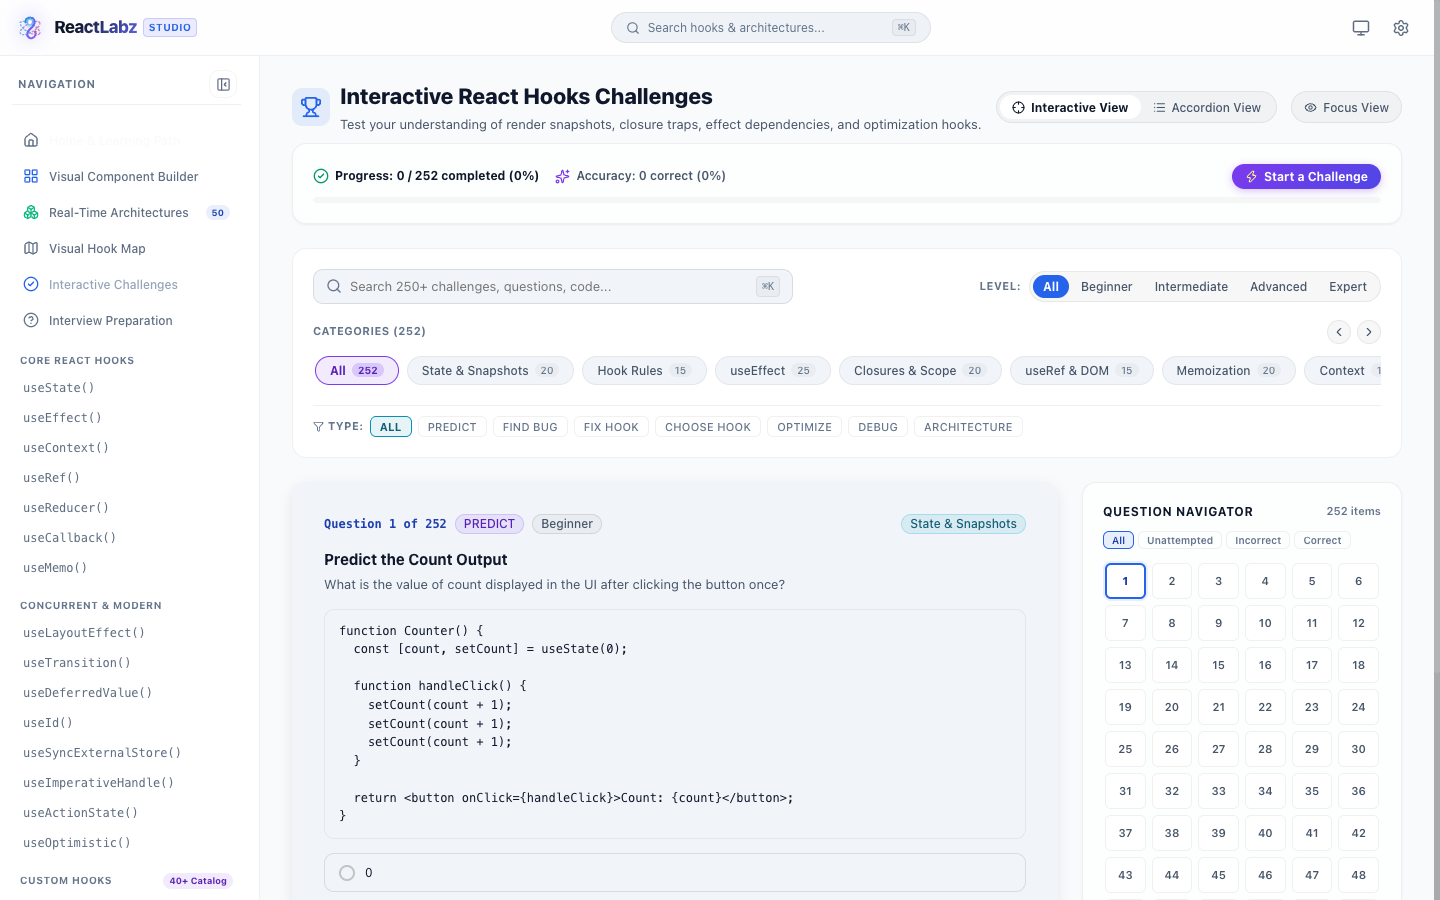
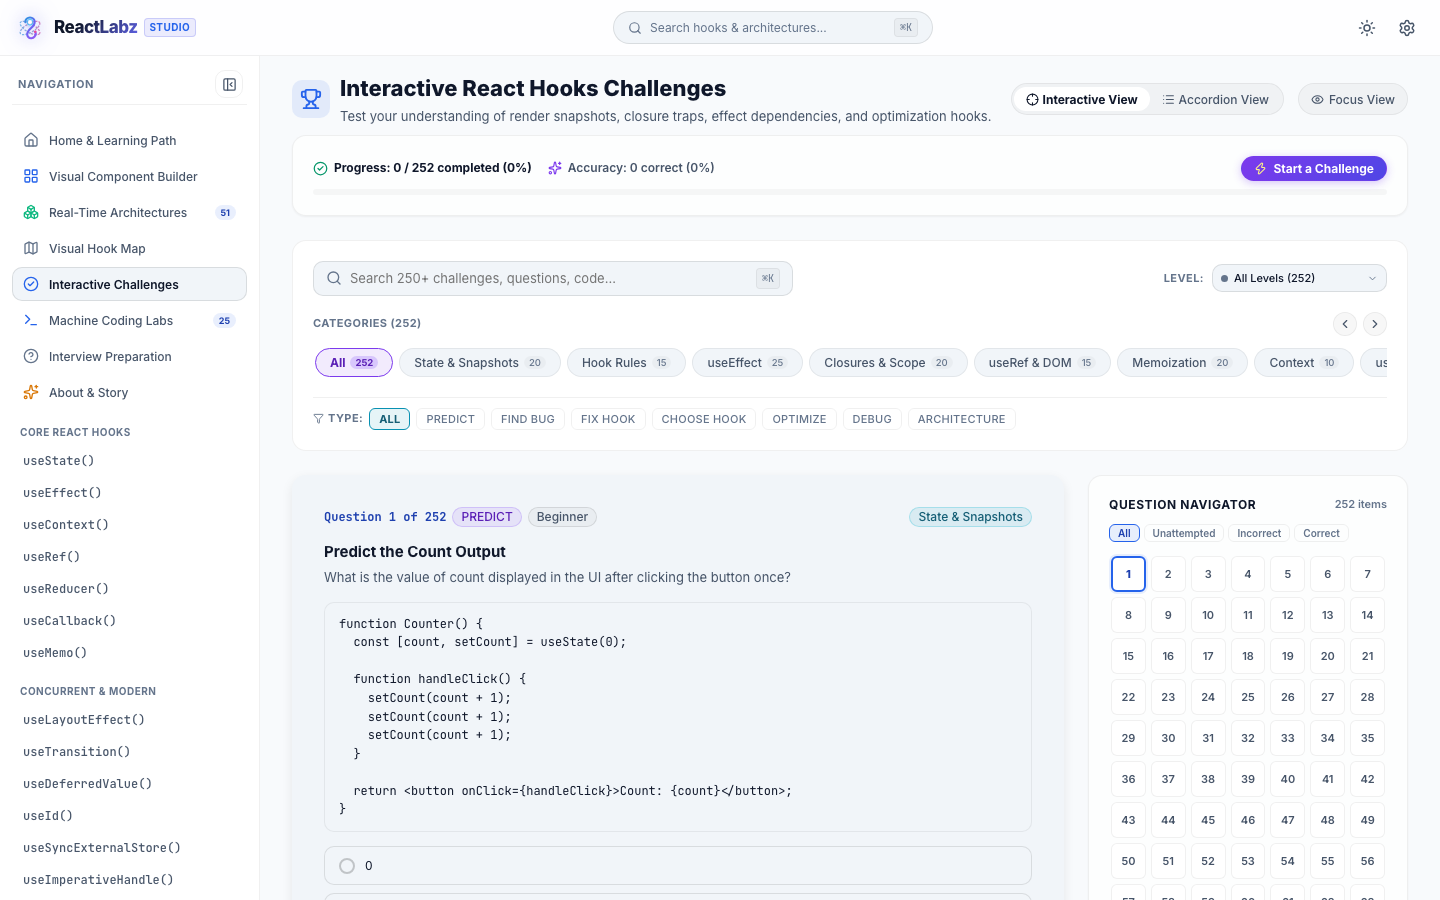
docs: update README with 25 machine coding labs, audio coach, and light mode screenshots

diff --git a/README.md b/README.md
@@ -5,11 +5,12 @@
 [![React 19](https://img.shields.io/badge/React-19.2-61DAFB?style=for-the-badge&logo=react&logoColor=black)](https://react.dev)
 [![TypeScript](https://img.shields.io/badge/TypeScript-6.0-3178C6?style=for-the-badge&logo=typescript&logoColor=white)](https://www.typescriptlang.org/)
 [![Vite](https://img.shields.io/badge/Vite-8.2-646CFF?style=for-the-badge&logo=vite&logoColor=white)](https://vitejs.dev/)
-[![Zero Backend](https://img.shields.io/badge/Zero_Backend-100%25_Client--Side-10B981?style=for-the-badge&logo=safari&logoColor=white)](#privacy--zero-backend-architecture)
+[![25 Machine Coding Labs](https://img.shields.io/badge/Machine_Coding-25_Interactive_Labs-8B5CF6?style=for-the-badge&logo=codeforces&logoColor=white)](#3-25-frontend-machine-coding-questions--interactive-labs-machine-coding)
+[![Zero Backend](https://img.shields.io/badge/Zero_Backend-100%25_Client--Side-10B981?style=for-the-badge&logo=safari&logoColor=white)](#11-local-first-privacy--zero-backend)
 [![License: MIT](https://img.shields.io/badge/License-MIT-F59E0B?style=for-the-badge)](LICENSE)
 
 **Stop guessing what React hooks are doing under the hood.**  
-A visual, hands-on diagnostic laboratory for React engineers. Inspect state snapshots, debug memory leaks and stale closures, compare referential identity, and construct functional components on an infinite visual canvas.
+A visual, hands-on diagnostic laboratory and machine coding suite for React engineers. Inspect state snapshots, debug memory leaks and stale closures, compare referential identity, construct functional components on an infinite visual canvas, and master 25 real-world machine coding problems with live sandboxes.
 
 [**Explore Live Demo**](https://reactlabz.vercel.app/) · [**Report Issue**](https://github.com/thevarunnayak/react-hooks/issues) · [**Request Feature**](https://github.com/thevarunnayak/react-hooks/issues)
 
@@ -24,11 +25,29 @@ A visual, hands-on diagnostic laboratory for React engineers. Inspect state snap
 ### Home & Interactive Fiber Telemetry
 ![ReactLabz Home](docs/screenshots/home.png)
 
+### Frontend Machine Coding Question Bank (25 Real-World Labs)
+![Machine Coding Catalog](docs/screenshots/machine_coding_catalog.png)
+
+### Interactive Code Editor & Live Compiler Sandbox
+![Code Editor Lab](docs/screenshots/machine_coding_lab.png)
+
+### WYSIWYG Rich Text Editor & Live Document Studio
+![WYSIWYG Rich Text Editor](docs/screenshots/rich_text_editor.png)
+
+### HTML5 Drag-and-Drop Kanban Board
+![Drag and Drop Kanban Board](docs/screenshots/kanban_board_lab.png)
+
 ### Infinite Visual Component Builder & Canvas Playground
 ![Visual Builder Canvas](docs/screenshots/playground.png)
 
 ### Visual Layout & Flex Studio
 ![Layout & Flex Studio](docs/screenshots/layout_studio.png)
+
+### Curated Custom Hooks Catalog (40+ Hooks)
+![Custom Hooks Catalog](docs/screenshots/custom_hooks.png)
+
+### Senior React Interview Simulator & Challenges Lab
+![Interactive Challenges](docs/screenshots/challenges.png)
 
 </div>
 
@@ -82,7 +101,69 @@ A visual, hands-on diagnostic laboratory for React engineers. Inspect state snap
 
 ---
 
-### 3. Deep Interactive Visualizers & Diagnostics
+### 3. 25 Frontend Machine Coding Questions & Interactive Labs (`#machine-coding`)
+*Practice building real, high-frequency frontend machine coding features from scratch with 100% client-side live sandboxes.*
+
+#### Curated Problem Catalog Across 5 Specialized Domains:
+1. **Interactive Component Systems**:
+   - **Tree View Explorer**: Hierarchical folder/file structure with conditional root file creation, node rename, add, delete, and light/dark theme tokens.
+   - **Split Pane Resizer**: Multi-pane resizer supporting `2 Panes (Split)`, `3 Panes (Nested Right)`, `3 Panes (Columns)`, and `4 Panes (2x2 Grid)` with dynamic pane adders and mouse/touch drag listeners.
+   - **Hierarchical Breadcrumb Navigator**: Interactive multi-tier hub navigation (`Cloud Console`, `E-Commerce Store`, `Developer Docs`) with cascading hover previews and segment jumping.
+   - **Responsive Tabs System**: Smooth sliding active pill indicator supporting horizontal and responsive vertical stacked orientations.
+   - **Nested Accordion FAQ**: CSS Grid `0fr -> 1fr` natural height transitions with WAI-ARIA compliance and single/multi expand modes.
+   - **Modal Dialog with Focus Trap**: React Portal, keyboard focus trap, Esc key dismissal, and background scroll lock.
+2. **Data-Intensive & High-Performance Lists**:
+   - **List Virtualization**: Renders 10,000 items at 60 FPS using a fixed-height sliding window, DOM node counter, and memory telemetry.
+   - **Advanced Data Table**: Multi-column sorting, global search, pagination, row multi-selection, and 1-click export to CSV / PDF.
+   - **Infinite Scroll Feed**: IntersectionObserver sentinel detection, skeleton loading cards, simulated network failure & retry.
+   - **Image Carousel**: Single Slide, Center-Stage Peek, and Multi-Card responsive modes with touch swipe gestures and auto-play hover pause.
+3. **Interactive Tools & Real-Time Studios**:
+   - **Interactive Code Editor & Live Compiler**: Multi-language execution sandbox (JavaScript, TypeScript, CSS, JSON) with intercepted console output, error reporting, and duration benchmarks.
+   - **WYSIWYG Rich Text Editor**: Custom in-theme hyperlink modal dialog (no browser prompts), live hover explainer ribbon, and active style highlighting for 14 formatting modes.
+   - **Drag-and-Drop Kanban Board**: HTML5 drag-and-drop tasks across columns with status counts, priority tags, and inline task creation.
+   - **Product Gallery with 2.5x Zoom**: Multi-angle image switcher, interactive zoom lens panel, and elevated stacking contexts.
+4. **Forms & User Input Controls**:
+   - **Debounced & Throttled Search**: Rapid keyboard input simulation, sliding debounce delay slider, in-memory query caching, and AbortController request simulation.
+   - **Autocomplete Combobox**: Keyboard navigation (Arrow keys / Enter / Esc), matched substring highlighting, and click-outside dismissal.
+   - **Multi-Step Form Wizard**: Multi-phase stepper, field validation, animated progress bar, and final review summary.
+   - **Dynamic Date Picker & Range Selector**: Single date and range selection, circular/rounded day cells, and quick preset buttons.
+   - **Star Rating Component**: Fractional hover preview, keyboard accessibility, and form value submission.
+   - **Drag-and-Drop File Uploader**: Multi-file dropzone, upload progress tracking, pause/resume simulation, and size validation.
+5. **Async & Real-Time Applications**:
+   - **Real-Time Chat with Auto-Scroll**: Intelligent scroll-to-bottom suppression when reading history, floating unread counter pill, and synthetic typing indicators.
+   - **Live Poll & Voting System**: Real-time percentage bars, custom option submission, and multi-option vote tracking.
+   - **Toast Notification Queue**: Multi-position stacking (`top-right`, `bottom-center`, etc.), shrinking progress countdown, and hover pause.
+   - **Draggable Grid Dashboard**: Widget drag-and-drop customization with layout persistence.
+   - **Interactive Todo List**: Action reducer architecture, localStorage persistence, priority tags, and inline double-click editing.
+
+#### Every Problem Includes:
+- **Interactive Live Sandbox**: Test the component in real time with interactive controls and diagnostic telemetry.
+- **Production Solution Code**: Full TypeScript / React 19 source code with 1-click copy-to-clipboard.
+- **Architectural Deep-Dives**: Functional & Non-Functional requirements, core concepts, and key patterns.
+- **Interview Edge Cases**: Comprehensive list of candidate pitfalls and edge cases to watch out for.
+- **Sequential Navigation**: Prev, Next, and All 25 Problems bottom navigation bar.
+- **100% Responsive & Theme Adaptive**: Seamless experience across mobile (<640px), tablet (640px–860px), and desktop (>860px) in both Light and Dark modes.
+
+---
+
+### 4. Audio Interview Coach & Live Transcript Drawer
+*Listen to senior engineering interview breakdowns on the go with synthesized audio lessons.*
+- **Floating Audio Coach Player**: Persistent player with play/pause, seek scrub bar, speed multiplier (`0.75x` to `2.0x`), and track progress.
+- **Interactive Transcript Drawer**: Synchronized line-by-line transcript highlighting with clickable timestamp jumping.
+- **Customizable Voice Packs**: Switch between natural voice personalities and configure pitch and rate preferences.
+- **Resume Audio Banner**: Smart persistent notification to quickly resume in-progress interview audio lessons from anywhere in the app.
+
+---
+
+### 5. Global Scroll-to-Top Floating Capsule (`ScrollToTopNotch`)
+*Fluid, non-intrusive viewport navigation for deep technical pages.*
+- **Floating Dynamic Capsule**: Centered at the top of the viewport with a live reading percentage indicator.
+- **Hover Expansion**: Smoothly expands to reveal a "Back to Top" label and icon.
+- **Smooth 1-Click Scroll**: Instantly returns to the top with smooth animation.
+
+---
+
+### 6. Deep Interactive Visualizers & Diagnostics
 - **Render Visualizer**: Live render counters and causality diffs ("Why did this render?").
 - **Referential Equality Visualizer**: Live comparison of memory addresses (`0xCAFE` vs new allocations), explaining why unmemoized objects break `useEffect` and `React.memo`.
 - **Closure Visualizer**: Interactive async timer demonstrating stale closures in callbacks and how `useRef` or functional updates solve them.
@@ -93,7 +174,7 @@ A visual, hands-on diagnostic laboratory for React engineers. Inspect state snap
 
 ---
 
-### 4. Comprehensive 20-Part Hook Curriculum (18+ Hooks)
+### 7. Comprehensive 20-Part Hook Curriculum (18+ Hooks)
 Every hook follows a standardized 20-part educational specification:
 - **Core Hooks**: `useState`, `useEffect`, `useContext`, `useRef`, `useReducer`, `useCallback`, `useMemo`
 - **Lifecycle & DOM**: `useLayoutEffect`, `useImperativeHandle`
@@ -102,20 +183,14 @@ Every hook follows a standardized 20-part educational specification:
 
 ---
 
-### 5. Curated Custom Hooks Catalog (40+ Hooks) & Builder (`#custom-hooks`)
+### 8. Curated Custom Hooks Catalog (40+ Hooks) & Builder (`#custom-hooks`)
 - Searchable catalog across State, Effects, Storage, DOM & Sensors, Performance, and Browser APIs.
 - Includes `useLocalStorage`, `useDebounce`, `useInterval`, `useClickOutside`, `useMediaQuery`, `useClipboard`, `usePrevious`, `useThrottle`, `useOnlineStatus`, `useIdleTimer`, etc.
 - **"Build Your Own Hook"** wizard generating boilerplate, hints, parameters, and test structures.
 
-<div align="center">
-
-![Custom Hooks Catalog](docs/screenshots/custom_hooks.png)
-
-</div>
-
 ---
 
-### 6. Senior React Interview Preparation & Real-Time Challenges (`#challenges`)
+### 9. Senior React Interview Preparation & Real-Time Challenges (`#challenges`)
 - **Interactive Challenge Lab**:
   - Predict Output
   - Find the Bug
@@ -125,31 +200,25 @@ Every hook follows a standardized 20-part educational specification:
   - Multi-tier difficulty tracks: `Junior`, `Mid`, `Senior`, `Lead`, `Principal`, `Architect`.
   - Short answers, architectural deep dives, common candidate pitfalls, and interactive follow-up questions.
 
-<div align="center">
-
-![Interactive Challenges](docs/screenshots/challenges.png)
-
-</div>
-
 ---
 
-### 7. Universal Command Palette (`⌘K`) with AI Speech-to-Text
-- Global modal searching across all hooks, custom hooks, architecture blueprints, and interview challenges.
+### 10. Universal Command Palette (`⌘K`) with AI Speech-to-Text
+- Global modal searching across all hooks, custom hooks, machine coding labs, architecture blueprints, and interview challenges.
 - Fuzzy keyword and full-content matching with highlighted text snippets.
 - **Web Speech API Microphone Input**: Real-time voice search with animated listening indicator and automatic background scroll locking.
-- Fast category filter pills (`All`, `Hooks`, `Custom Hooks`, `Architectures`, `Challenges`, `Interview`).
+- Fast category filter pills (`All`, `Hooks`, `Custom Hooks`, `Machine Coding`, `Architectures`, `Challenges`, `Interview`).
 
 ---
 
-### 8. Local-First Privacy & Zero Backend
-- **100% Client-Side Privacy**: All notes, bookmarks, challenge progress, and canvas projects persist strictly in the browser's `localStorage`.
+### 11. Local-First Privacy & Zero Backend
+- **100% Client-Side Privacy**: All notes, bookmarks, challenge submissions, machine coding state, and canvas projects persist strictly in the browser's `localStorage`.
 - **Zero Cloud Dependence**: No mandatory account registration, cookies, or external databases.
 - **JSON State Backup & Restore**: Export and import your entire workspace state with 1 click from the Settings drawer.
 - **Theme System**: Dark, Light, and System modes with sleek glassmorphic surfaces and high-contrast typography.
 
 ---
 
-### 9. Origin Story & Community Ideas Mailbox (`#about`)
+### 12. Origin Story & Community Ideas Mailbox (`#about`)
 - **The Core Problem Statement**: Why mastering React hooks is deceptively difficult when candidates only memorize surface syntax without understanding Fiber reconciliation, closures, and the reactive render pipeline.
 - **Origin & Vision**: The story of turning invisible runtime mechanics into an interactive visual diagnostic laboratory.
 - **Community Co-Creation**: Direct suggestion mailbox to submit custom UI ideas, tricky interview questions, and feature requests.
@@ -166,29 +235,35 @@ react-hooks/
 │   ├── sitemap.xml           # XML sitemap for SEO
 │   └── site.webmanifest      # PWA application manifest
 ├── docs/
-│   └── screenshots/          # High-resolution application screenshots
+│   └── screenshots/          # High-resolution application screenshots (Light Mode)
 ├── src/
-│   ├── types/                # Strict TypeScript models (Playground, Challenges, Hooks)
+│   ├── types/                # TypeScript models (Playground, Machine Coding, Challenges, Hooks)
 │   ├── styles/               # Design tokens, variables, typography, and glassmorphic UI
 │   ├── hooks/                # Core hooks (useLocalStorage, useClickOutside, useTheme, etc.)
 │   ├── i18n/                 # Localization dictionaries
 │   ├── data/
 │   │   ├── hooks/            # 18+ Comprehensive Hook guides (20-part spec)
 │   │   ├── custom-hooks/     # 40+ Curated custom hook implementations
+│   │   ├── machineCoding/    # 25 Frontend Machine Coding Questions (Parts 1–5)
 │   │   ├── challenges/       # Bug finding, output prediction, and optimization
 │   │   └── interviews/       # Senior React interview question bank
 │   ├── components/
-│   │   ├── ui/               # Primitives (Button, Card, Badge, Modal, Tabs, Tooltip)
+│   │   ├── ui/               # Primitives (Button, Card, Badge, Modal, Tabs, Tooltip, ScrollToTopNotch)
 │   │   ├── layout/           # AppShell, Header, Sidebar, CommandPalette, SettingsDrawer
 │   │   ├── visualization/    # RenderVisualizer, ReferentialVisualizer, ClosureVisualizer
 │   │   ├── labs/             # Dedicated hook deep-dive interactive labs
+│   │   ├── interviewAudio/   # AudioCoachPlayer, TranscriptDrawer, AudioSettingsModal
+│   │   ├── machineCoding/    # 25 Interactive Machine Coding Sandboxes
+│   │   │   ├── labs/         # TreeViewLab, SplitPaneLab, CodeEditorLab, RichTextEditorLab, etc.
+│   │   │   └── MachineCodingLabRunner.tsx
 │   │   └── playground/       # VISUAL CANVAS & COMPONENT BUILDER
 │   │       ├── canvas/       # Dot-grid viewport, SVG wires, CanvasToolbar
 │   │       ├── nodes/        # UIComponentNode (real UI) & LogicHookNode
 │   │       ├── panels/       # ComponentPalette, Inspector, LivePreviewPanel, UIOrderModal
 │   │       ├── engine/       # Code generator, history stack, and wiring engine
 │   │       └── tutorials/    # 50 curated real-time architecture blueprints
-│   └── pages/                # HomePage, PlaygroundPage, HookLessonPage, ChallengesPage, etc.
+│   ├── services/             # Audio coach builder, search indexing, voice packs
+│   └── pages/                # HomePage, PlaygroundPage, MachineCodingPage, ChallengesPage, etc.
 └── package.json
 ```
 
@@ -231,6 +306,12 @@ npm run preview
 ---
 
 ## Adding New Content
+
+### Adding a Machine Coding Problem & Lab
+1. Define the question metadata and solution code in `src/data/machineCoding/`.
+2. Create the live interactive component in `src/components/machineCoding/labs/<ProblemName>Lab.tsx`.
+3. Register the lab inside `src/components/machineCoding/labs/MachineCodingLabRunner.tsx`.
+4. It will immediately appear in the **25 Machine Coding Questions** catalog, sidebar navigation, and `⌘K` search index.
 
 ### Adding a Hook Lesson
 1. Create a lesson definition in `src/data/hooks/<hookName>.ts` implementing the `HookLessonData` interface.
